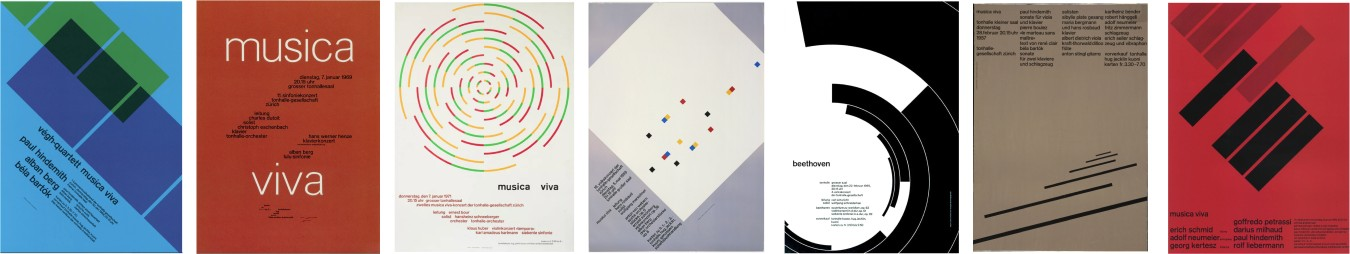
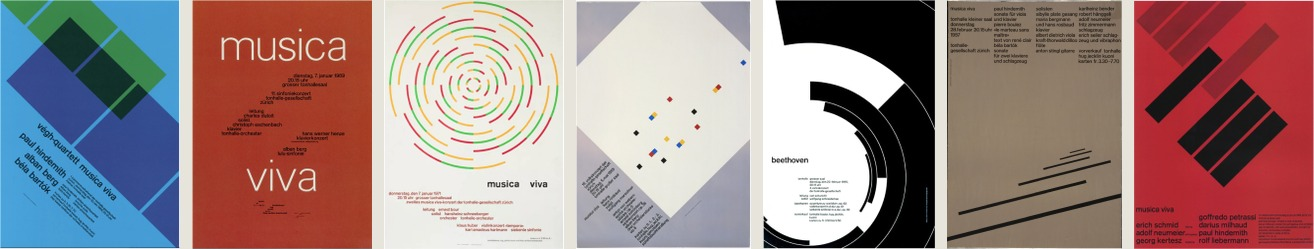
Landing: capitals after full stops; Müller-Brockmann posters without the white
Claude-Session: https://claude.ai/code/session_01VuUPjP9oDv6NCU5J9jVP4t

diff --git a/landing.html b/landing.html
@@ -194,8 +194,8 @@ footer{padding:16px 0 28px;font-size:13px;display:flex;justify-content:space-bet
 <section class="insp g">
   <div class="rule" style="grid-column:1/-1"></div>
   <div class="k"><b>02</b>inspiration</div>
-  <p class="ip un">Josef Müller-Brockmann (1914–1996) was a Swiss graphic designer, one of the fathers of the Swiss style. in his posters for Musica Viva at the Tonhalle Zürich one shape returns, and each time one thing in it changes — measured, in one direction. his book <i>Grid Systems in Graphic Design</i> (1981) is the grid ühr is built on: every hour a square, every square in its place.</p>
-  <img class="un" src="site/mb-works.jpg" alt="posters by josef müller-brockmann for musica viva, tonhalle zürich" loading="lazy">
+  <p class="ip un">Josef Müller-Brockmann (1914–1996) was a Swiss graphic designer, one of the fathers of the Swiss style. In his posters for Musica Viva at the Tonhalle Zürich one shape returns, and each time one thing in it changes — measured, in one direction. His book <i>Grid Systems in Graphic Design</i> (1981) is the grid ühr is built on: every hour a square, every square in its place.</p>
+  <img class="un" src="site/mb-works.jpg?v=2" alt="posters by josef müller-brockmann for musica viva, tonhalle zürich" loading="lazy">
 </section>
 
 <!-- 4 — type -->
